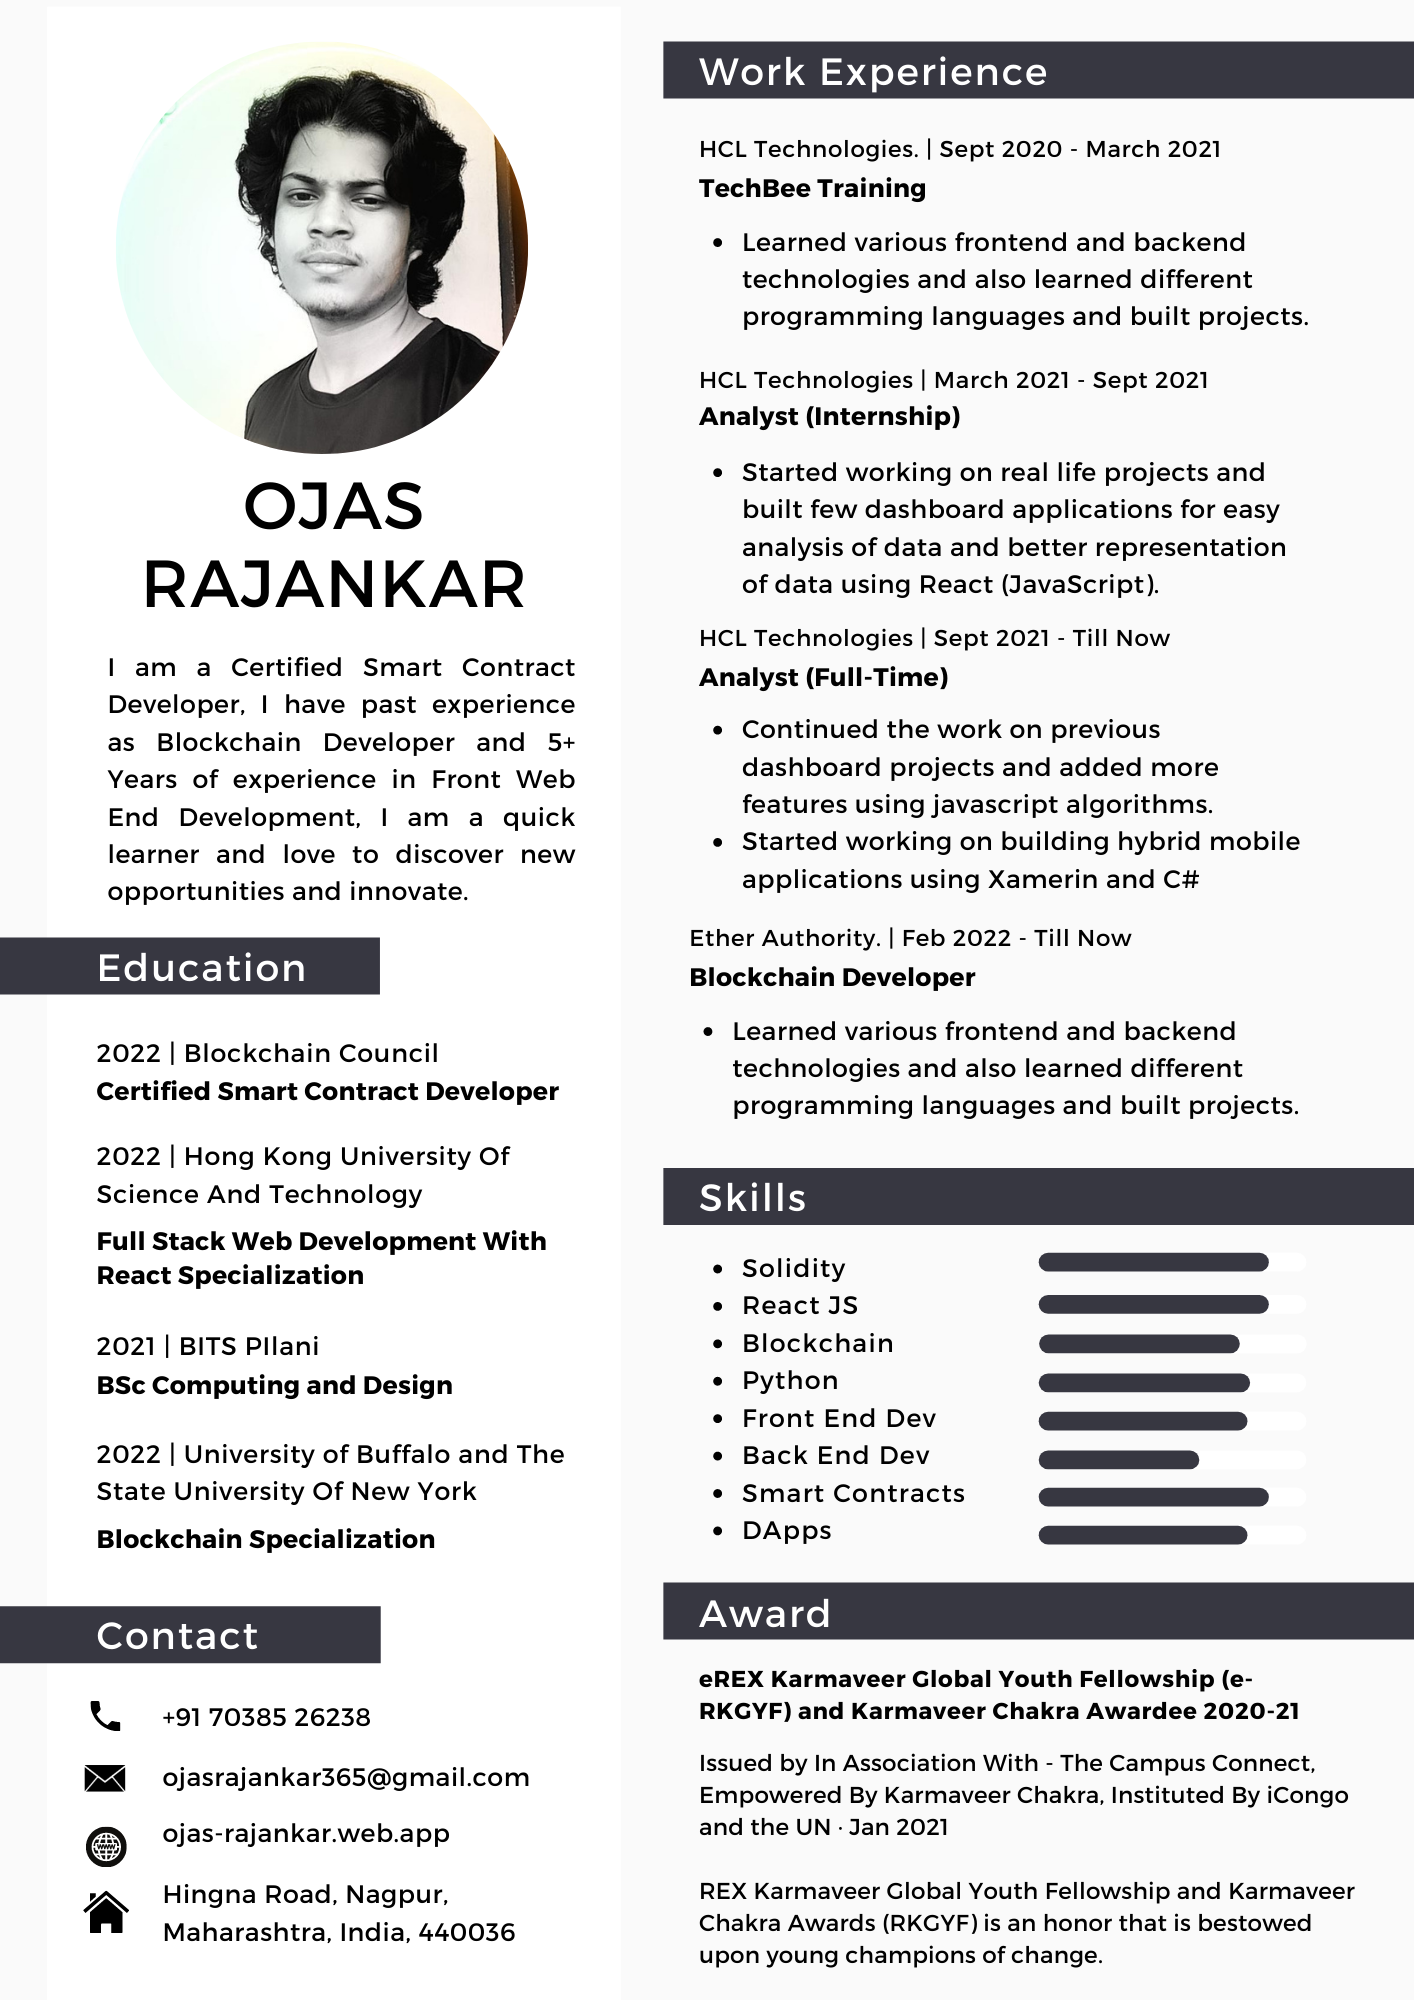
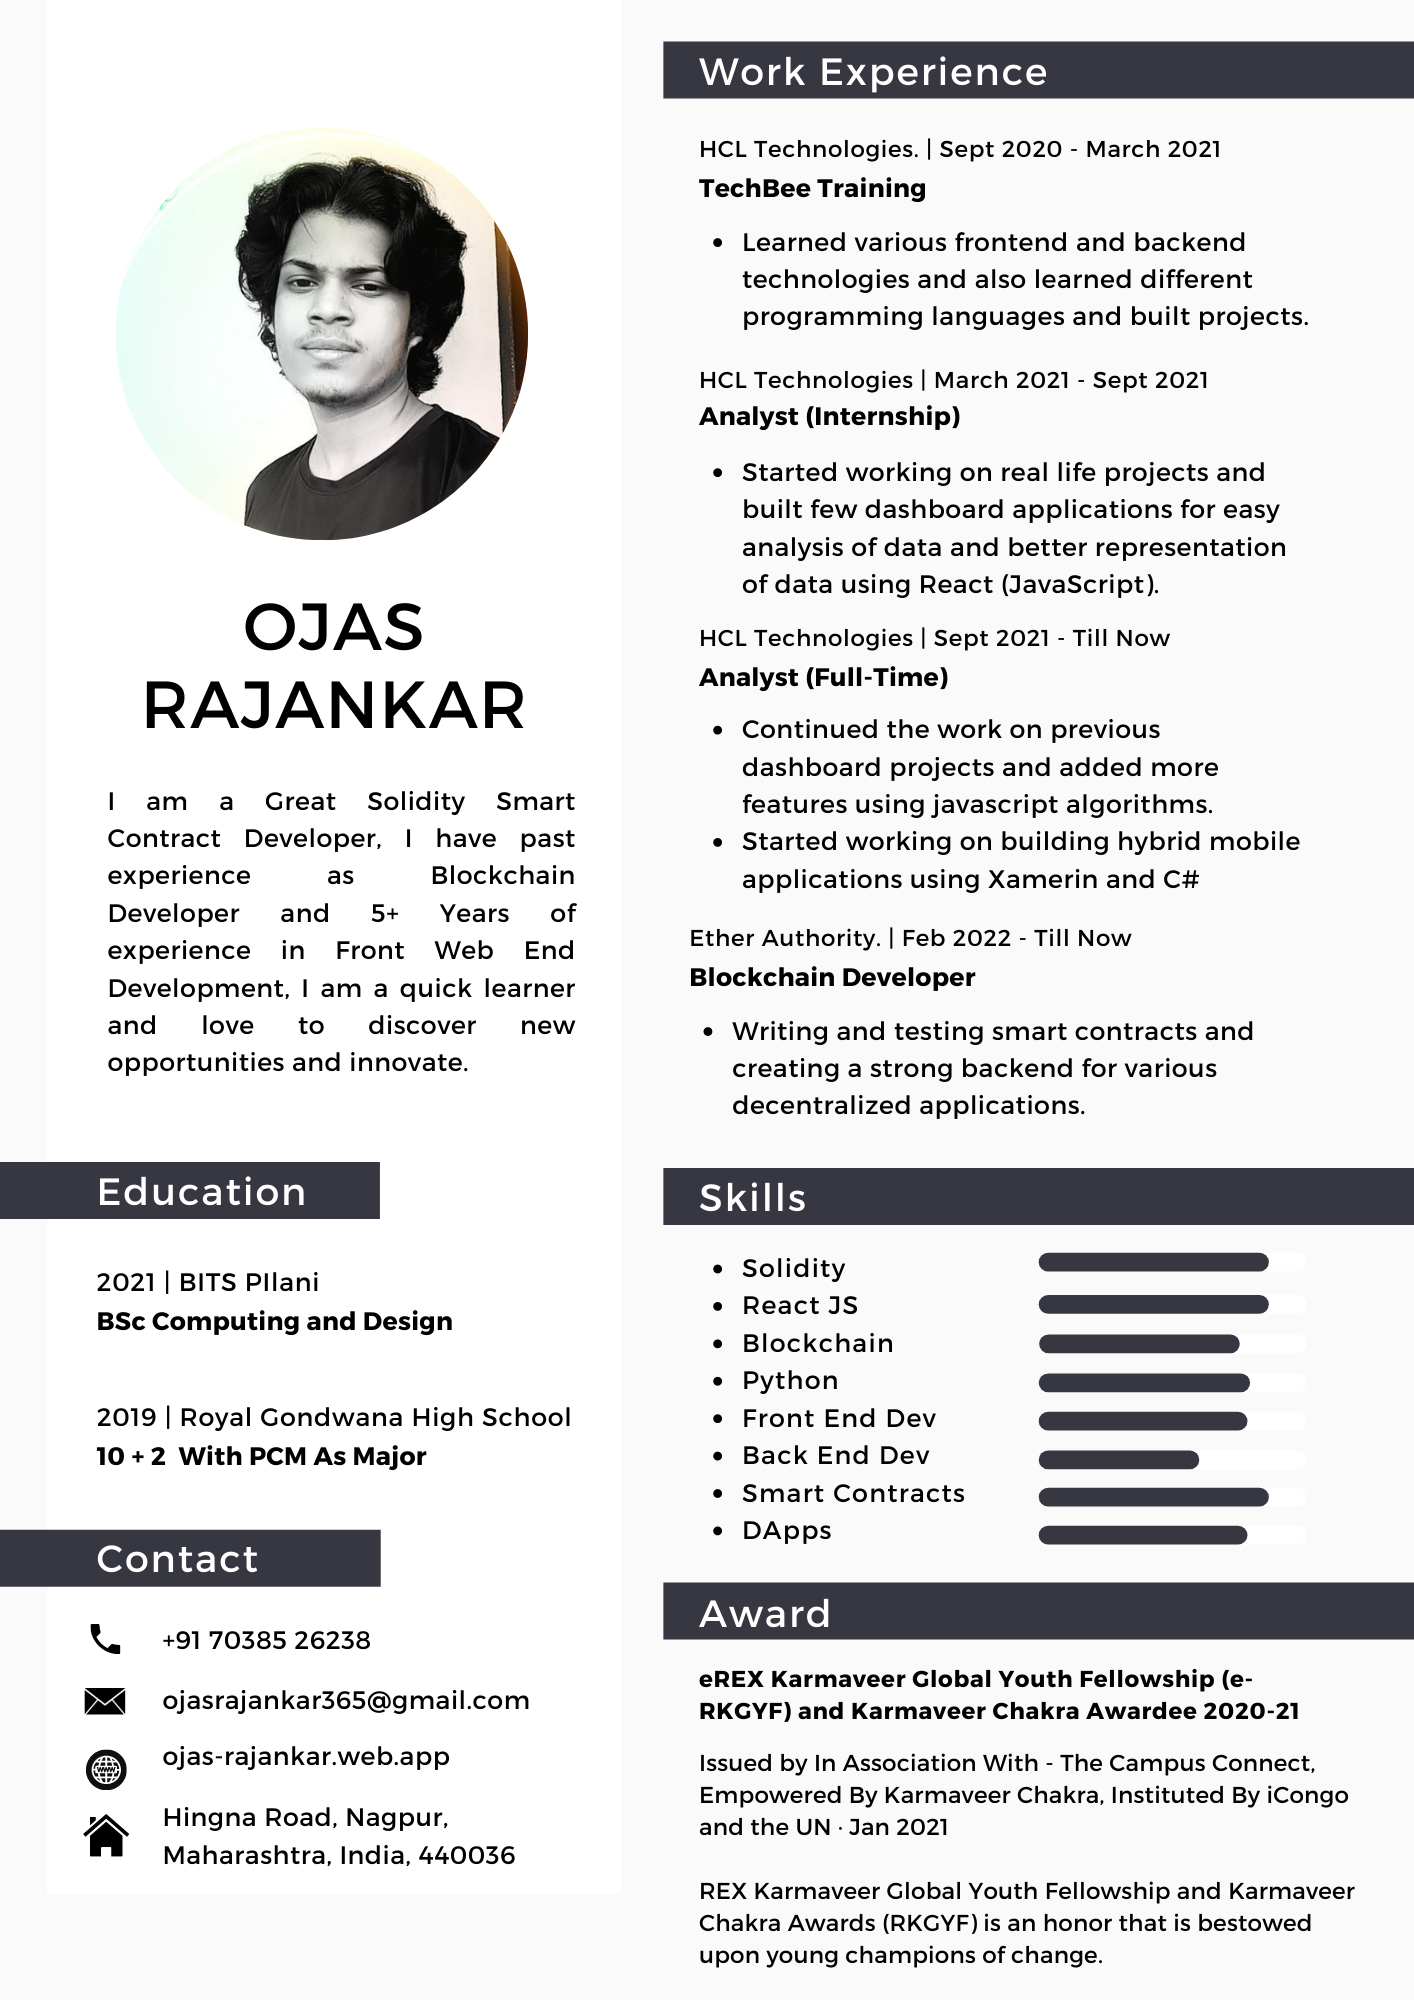
Work In Progress

diff --git a/new-react-portfolio/react-portfolio/src/data/BlogData.js b/new-react-portfolio/react-portfolio/src/data/BlogData.js
@@ -1,67 +1,59 @@
 export const Blogs = [
     {
         id:1,
-        name:"Amazon.Com Clone Created In React JS",
-        tags:["react","amazon","clone"],
+        name:"Web2 Based Amazon Clone",
+        tags:["react","amazon","clone", "web2"],
         date:"13 May, 2021",
         imgSrc:"https://images.indianexpress.com/2021/07/amazon-india-bloomberg-1200-1.jpg",
         link:"https://clone-2d5e0.web.app/"
     },
     {
-        id:1,
-        name:"Clone Of Amazon.Com Created In React JS",
-        tags:["react","amazon","clone"],
-        date:"13 May, 2021",
-        imgSrc:"https://res.cloudinary.com/practicaldev/image/fetch/s--sBeV06Xc--/c_imagga_scale,f_auto,fl_progressive,h_420,q_auto,w_1000/https://dev-to-uploads.s3.amazonaws.com/uploads/articles/2yrzy75q4dzibqz6rf82.png",
-        link:"https://clone-2d5e0.web.app/"
+        id:2,
+        name:"Web3 Based Twitter Clone",
+        tags:["react","twitter","clone", "web3"],
+        date:"20 Jan, 2022",
+        imgSrc:"https://blog.equinix.com/wp-content/uploads/2017/10/blockchain.jpg",
+        link:"https://decentralized-twitter.web.app/"
     },
     {
-        id:1,
-        name:"Clone Of Amazon.Com Created In React JS",
-        tags:["react","amazon","clone"],
-        date:"13 May, 2021",
-        imgSrc:"https://res.cloudinary.com/practicaldev/image/fetch/s--sBeV06Xc--/c_imagga_scale,f_auto,fl_progressive,h_420,q_auto,w_1000/https://dev-to-uploads.s3.amazonaws.com/uploads/articles/2yrzy75q4dzibqz6rf82.png",
-        link:"https://clone-2d5e0.web.app/"
+        id:3,
+        name:"Web3 Based Instagram Clone",
+        tags:["react","instagram","clone", "web3"],
+        date:"15 Feb, 2022",
+        imgSrc:"https://blog.equinix.com/wp-content/uploads/2017/10/blockchain.jpg",
+        link:"https://decentralized-instagram.web.app/"
     },
     {
-        id:1,
-        name:"Clone Of Amazon.Com Created In React JS",
-        tags:["react","amazon","clone"],
-        date:"13 May, 2021",
-        imgSrc:"https://res.cloudinary.com/practicaldev/image/fetch/s--sBeV06Xc--/c_imagga_scale,f_auto,fl_progressive,h_420,q_auto,w_1000/https://dev-to-uploads.s3.amazonaws.com/uploads/articles/2yrzy75q4dzibqz6rf82.png",
-        link:"https://clone-2d5e0.web.app/"
+        id:4,
+        name:"Top 50 Crypto Currency App",
+        tags:["react","crypto","api"],
+        date:"29 Jan, 2022",
+        imgSrc:"https://blog.equinix.com/wp-content/uploads/2017/10/blockchain.jpg",
+        link:"https://crypto-market-61c80.web.app/"
     },
     {
-        id:1,
-        name:"Clone Of Amazon.Com Created In React JS",
-        tags:["react","amazon","clone"],
-        date:"13 May, 2021",
-        imgSrc:"https://res.cloudinary.com/practicaldev/image/fetch/s--sBeV06Xc--/c_imagga_scale,f_auto,fl_progressive,h_420,q_auto,w_1000/https://dev-to-uploads.s3.amazonaws.com/uploads/articles/2yrzy75q4dzibqz6rf82.png",
-        link:"https://clone-2d5e0.web.app/"
+        id:5,
+        name:"Random Quotes Generator",
+        tags:["react","quotes","api"],
+        date:"13 Dec, 2021",
+        imgSrc:"https://blog.equinix.com/wp-content/uploads/2017/10/blockchain.jpg",
+        link:"https://crypto-market-61c80.web.app/"
     },
     {
-        id:1,
-        name:"Clone Of Amazon.Com Created In React JS",
-        tags:["react","amazon","clone"],
-        date:"13 May, 2021",
-        imgSrc:"https://res.cloudinary.com/practicaldev/image/fetch/s--sBeV06Xc--/c_imagga_scale,f_auto,fl_progressive,h_420,q_auto,w_1000/https://dev-to-uploads.s3.amazonaws.com/uploads/articles/2yrzy75q4dzibqz6rf82.png",
-        link:"https://clone-2d5e0.web.app/"
+        id:6,
+        name:"Convert Text To NFT",
+        tags:["react","quotes","web3"],
+        date:"05 Feb, 2022",
+        imgSrc:"https://blog.equinix.com/wp-content/uploads/2017/10/blockchain.jpg",
+        link:"https://convert-into-nft.web.app/"
     },
     {
-        id:1,
-        name:"Clone Of Amazon.Com Created In React JS",
-        tags:["react","amazon","clone"],
-        date:"13 May, 2021",
-        imgSrc:"https://res.cloudinary.com/practicaldev/image/fetch/s--sBeV06Xc--/c_imagga_scale,f_auto,fl_progressive,h_420,q_auto,w_1000/https://dev-to-uploads.s3.amazonaws.com/uploads/articles/2yrzy75q4dzibqz6rf82.png",
-        link:"https://clone-2d5e0.web.app/"
+        id:7,
+        name:"The Coding Corporation",
+        tags:["react","edtech","web3"],
+        date:"15 Nov, 2021",
+        imgSrc:"https://blog.equinix.com/wp-content/uploads/2017/10/blockchain.jpg",
+        link:"https://the-coding-corp.web.app/"
     },
-    {
-        id:1,
-        name:"Clone Of Amazon.Com Created In React JS",
-        tags:["react","amazon","clone"],
-        date:"13 May, 2021",
-        imgSrc:"https://res.cloudinary.com/practicaldev/image/fetch/s--sBeV06Xc--/c_imagga_scale,f_auto,fl_progressive,h_420,q_auto,w_1000/https://dev-to-uploads.s3.amazonaws.com/uploads/articles/2yrzy75q4dzibqz6rf82.png",
-        link:"https://clone-2d5e0.web.app/"
-    },
-  
+   
 ] 

diff --git a/new-react-portfolio/react-portfolio/src/component/MySkillsPage.js b/new-react-portfolio/react-portfolio/src/component/MySkillsPage.js
@@ -94,8 +94,8 @@ function MySkillsPage() {
 						Blockchain Developer
 					</Title>
 					<Description>
-						I Love Developing Blockchain Apps And I Am Also A Certified Smart Contract
-						Developer by Blockchain Council
+						I Love Developing Blockchain Apps From Scratch And I Am Also A Great Solidity Smart Contract
+						Developer 
 					</Description>
 					<Description>
 						<strong>I Love To Develope:</strong>
@@ -113,7 +113,7 @@ function MySkillsPage() {
 					<Description>
 						<strong>Tools I Know:</strong>
 						<p>
-							Remix, Truffle, Hard Hat, Ganashe, Meta
+							Remix, Chai, Hard Hat, Alchemy, Meta
 							Mask.
 						</p>
 					</Description>
@@ -137,7 +137,7 @@ function MySkillsPage() {
 					<Description>
 						<strong>My Skills:</strong>
 						<p>
-							HTML, CSS, JS, React, Redux, Tailwind CSS, Firebase etc.
+							HTML, CSS, JS, React, Bootstrap, Tailwind CSS, Firebase etc.
 						</p>
 					</Description>
 					<Description>

diff --git a/new-react-portfolio/react-portfolio/src/component/Intro.js b/new-react-portfolio/react-portfolio/src/component/Intro.js
@@ -66,7 +66,7 @@ const Intro = (props) => {
                 <Text>
                     <h1>Hi,</h1>
                     <h3>I'm Ojas Rajankar.</h3>
-                    <h6>I am a Blockchain and Full Stack Developer with React Specialization.</h6>
+                    <h6>I am a Full Stack Blockchain Developer with React Specialization.</h6>
                 </Text>
             </SubBox>
             <SubBox>

diff --git a/new-react-portfolio/react-portfolio/src/component/AboutPage.js b/new-react-portfolio/react-portfolio/src/component/AboutPage.js
@@ -69,7 +69,7 @@ const AboutPage = () => {
 					<img src={astronaut} alt="spaceman" />
 				</Spaceman>
 				<Main>
-					I am a Certified Smart Contract
+					I am a Great Smart Contract
 					Developer, I have past experience as
 					Blockchain Developer and 5+ Years of
 					experience in Front Web End Development,

diff --git a/new-react-portfolio/react-portfolio/src/component/BlogPage.js b/new-react-portfolio/react-portfolio/src/component/BlogPage.js
@@ -54,7 +54,7 @@ function BlogPage() {
                 <PowerButton />
                 <SocialIcons />
                 <BigTitlte
-					text="Blog"
+					text="Projects"
 					top="10%"
 					left="5%"
 				/>

diff --git a/new-react-portfolio/react-portfolio/src/component/MyCertifications.js b/new-react-portfolio/react-portfolio/src/component/MyCertifications.js
@@ -3,7 +3,7 @@ import React from 'react'
 const MyCertifications = () => {
     return (
         <div>
-            My Certifications Page
+            Work Under Progress
         </div>
     )
 }
